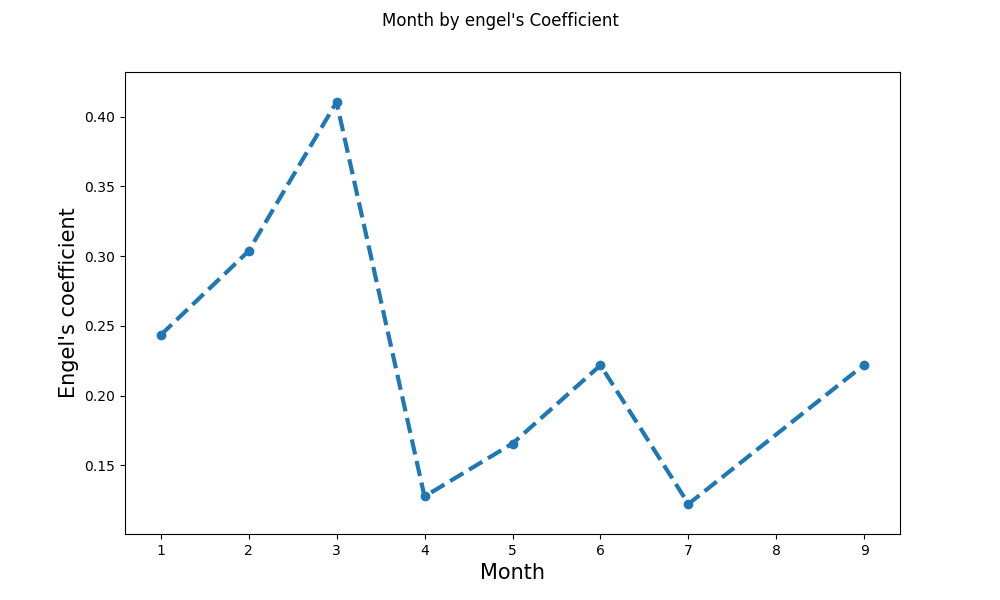
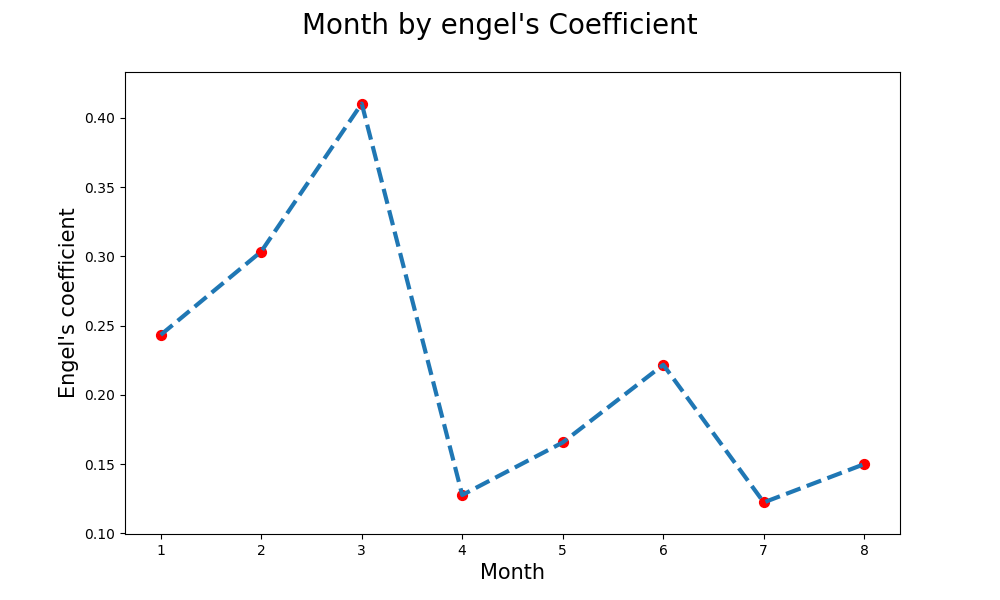
JiSoo >  과제 4번 제출본

diff --git a/Park/engel.py b/Park/engel.py
@@ -7,63 +7,74 @@ def main():
     income = []
     food_expenses = []
     new_line = []
-    account_book  = read_file("./account_book.csv") #account_book = month income food_expenses
-    save_the_new_file(account_book,"./account_book1.csv")#파일이 변해버리는 것을 대비해서 파일명을 일부러 다르게 해두었습니다
-    
+    account_book = read_file("./account_book.csv")  # account_book = month income food_expenses
+    save_the_new_file(account_book, "./account_book1.csv")  # 파일이 변해버리는 것을 대비해서 파일명을 일부러 다르게 해두었습니다
+
     account_book = np.array(account_book)
-    
-    month = account_book[: ,0]
-    income = account_book[: ,1]
-    food_expenses = account_book[: ,2]
-    
-    engels_coefficient = calculate_engel_coefficient(income,food_expenses)
-    print(engels_coefficient)
-    
-    visualize_month_by_engel(month,engels_coefficient,"Month","Engel's coefficient")
-    
-def read_file(file_name):#파일을 읽어와서 각 원소를 integer형으로 변환해 list 화하여 반환함 단!! 읽어옴과 동시에 새로운 데이터가 있다면 입력하도록 함
+
+    month = account_book[:, 0]
+    income = account_book[:, 1]
+    food_expenses = account_book[:, 2]
+
+    engels_coefficient = calculate_engel_coefficient(income, food_expenses)
+    #print(engels_coefficient)
+    visualize_month_by_engel(month, engels_coefficient, "Month", "Engel's coefficient")
+
+
+def read_file(file_name):  # 파일을 읽어와서 각 원소를 integer형으로 변환해 list 화하여 반환함 단!! 읽어옴과 동시에 새로운 데이터가 있다면 입력하도록 함
     account_book = []
     with open(file_name) as fp:
         next(fp)
         for line in fp:
             splitted = line.strip().split(',')
             account_book.append([int(splitted[0]), int(splitted[1]), int(splitted[2])])
-            
+
         account_book = set_new_data(account_book)  # 새로운 가계데이터 입력
     return account_book;
 
 
-def save_the_new_file(account_book,file_name):#input이 추가되어 새롭게 만들어진 list로 csv파일 갱신
-	fp = open(file_name,'w')
-	csvWriter = csv.writer(fp)
-	
-	csvWriter.writerow(['month','income','food_expenses'])
-	for row in account_book:
-		csvWriter.writerow(row)
-	fp.close()
-	
-def calculate_engel_coefficient(income,food_expenses):#엥겔지수 계산 함수
-    return food_expenses/income
+def save_the_new_file(account_book, file_name):  # input이 추가되어 새롭게 만들어진 list로 csv파일 갱신
+    fp = open(file_name, 'w')
+    csvWriter = csv.writer(fp,delimiter=',',lineterminator ='\n')
 
-def visualize_month_by_engel(x,y,x_label,y_label):
-    fig =plt.figure(figsize=(10,6))
-    fig.suptitle("Month by engel's Coefficient")
-    plt.xlabel(x_label,fontsize='15')
-    plt.ylabel(y_label,fontsize='15')
-    
-    plt.scatter(x,y)
-    plt.plot(x,y,linestyle = "--",linewidth = 3.0)
+    csvWriter.writerow(['month', 'income', 'food_expenses'])
+    for row in account_book:
+        csvWriter.writerow(row)
+    fp.close()
+
+
+def calculate_engel_coefficient(income, food_expenses):  # 엥겔지수 계산 함수
+    return food_expenses / income
+
+
+def visualize_month_by_engel(x, y, x_label, y_label):
+    fig = plt.figure(figsize=(10, 6))
+    fig.suptitle("Month by engel's Coefficient",fontsize=20)
+    plt.xlabel(x_label, fontsize='15')
+    plt.ylabel(y_label, fontsize='15')
+
+    plt.scatter(x, y,s=50,color='red')
+    plt.plot(x, y, linestyle="--", linewidth=3.0)
     plt.savefig("result.png")
-    
-def set_new_data(account_book):#int가 아닌 데이터가 입력되는 경우를 대비해서 코드수정 필요
-	new_line = [int(x) for x in input("New Data(ex: 9 1000000 222222) :").strip().split(" ")]
-	print(type(new_line[0]))
-	if (type(new_line[0])==int) and (type(new_line[1])==int) and (type(new_line[2])==int):
-		print("update~~")
-		account_book.append(new_line)
-	else:
-		print('invalid data!!!')
-	return account_book
+    plt.show()
+
+
+
+def set_new_data(account_book):
+    input_line = [ x for x in input("새로운 데이터를 입력하세요~! (ex: 8 1000000 222222) :").strip().split(" ")]
+    new_line =[]
+    for num in input_line:
+        if num.isnumeric():#숫자 세개이면 새로운 정보로 인정한다
+            new_line.append(int(num))
+        else:# 숫자가 아닌 데이터가 입력되면 새로운 정보로 인정하지 않는다
+            print('''invalid data type!!
+please enter the three integer number!''')
+            new_line.clear()
+            return account_book
+
+    print('updating~~!')
+    account_book.append(new_line)
+    return account_book
 
 if __name__ == '__main__':
     main()
